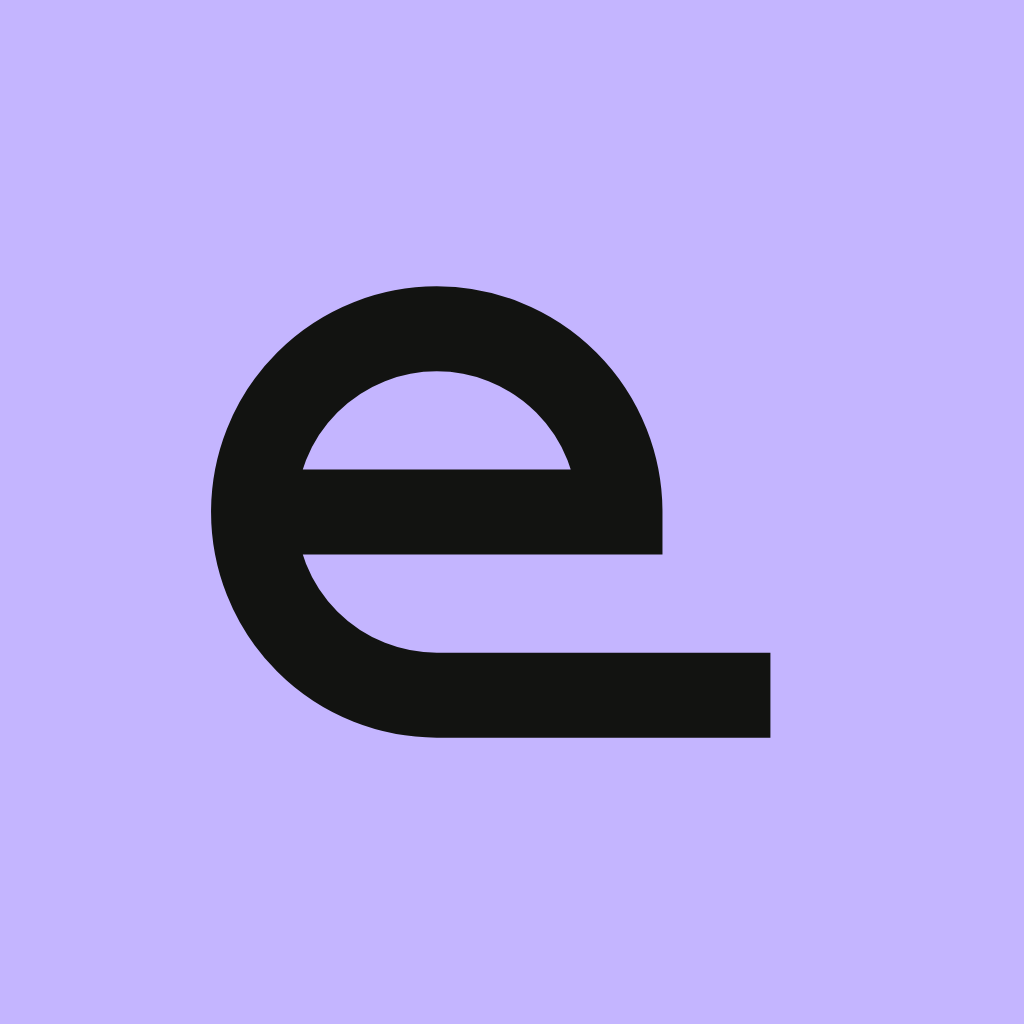
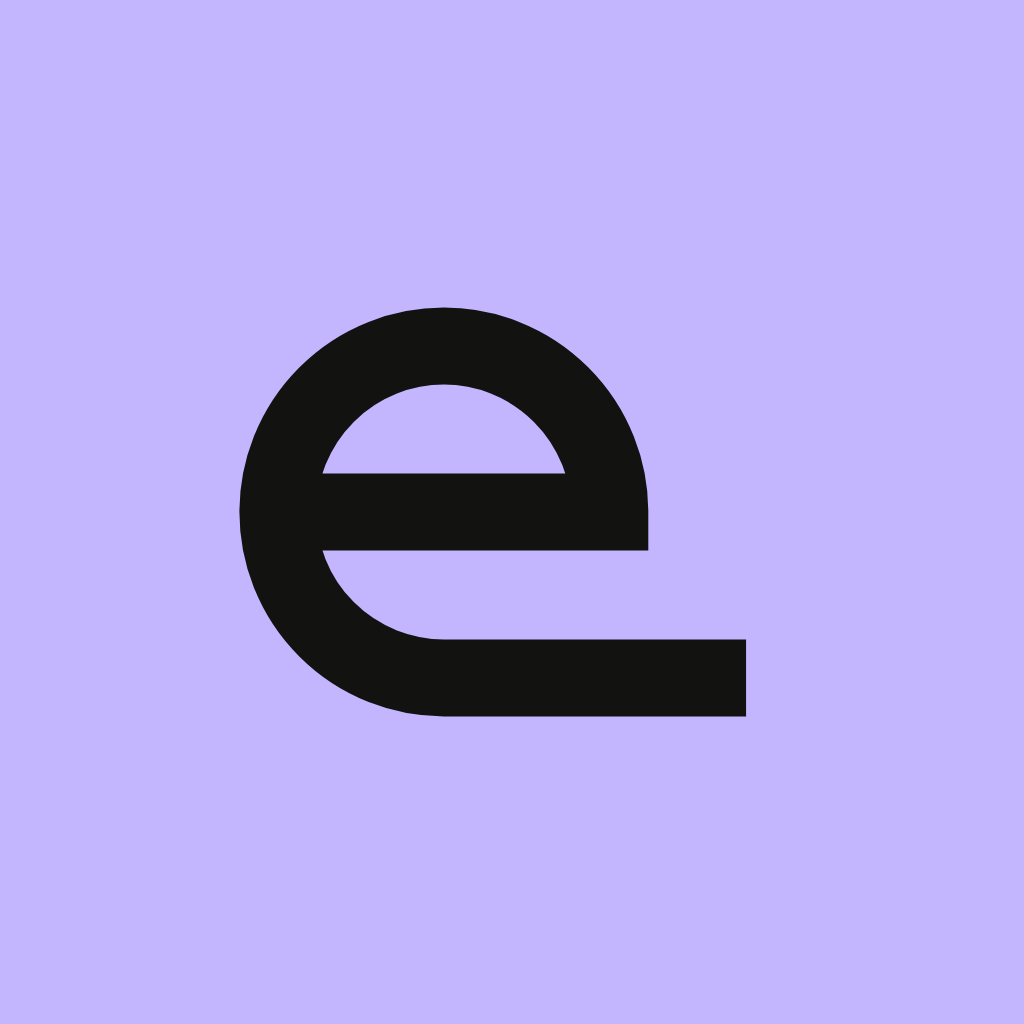
Put the mark on every surface Android shows it on, and fix the scale that clipped it
The icon landed, but on a launcher that masks to a circle the rail ran into the edge. The
mark's furthest point from its centre is the right end of that rail, 107.7 units out in the
256-unit drawing; at the scale used it reached 148.6 against a safe-circle radius of 144. The
safe zone is a square but the mask is a circle, and a bounding box that fits the square can
still put its corners outside the circle. Rescaled so the circumscribed radius clears it with
room, and the monochrome layer moved with it.

Three surfaces had no mark at all:

Themed icons. Android 13+ recolours a monochrome layer to the wallpaper. Without one this was
the only icon on the home screen ignoring the user's theme while everything around it adapted.

The splash. Android 12+ draws one on every cold start whether or not it is configured; left
alone it dropped the ink-on-lilac icon onto near-black. It is now the mark in lilac on Ground.
That inverts the icon's pairing on purpose — the kit allows both, and it keeps the cold start
dark the whole way rather than flashing a bright lilac field at someone mid-attack. Note for
later: android:postSplashScreenTheme is an androidx splashscreen attribute, not a platform one.
The platform attributes are inert outside the splash, so they sit on the app's own theme and
need no extra dependency.

The first screen, which still showed the canal glyph drawn before this logo existed. It now
[…]

Changed region(s): [[0.1875, 0.2812, 0.75, 0.7188], [0.2812, 0.3438, 0.5625, 0.4688]]

diff --git a/app/src/main/kotlin/health/epley/app/HomeFlow.kt b/app/src/main/kotlin/health/epley/app/HomeFlow.kt
@@ -1,6 +1,5 @@
 package health.epley.app
 
-import androidx.compose.foundation.Canvas
 import androidx.compose.foundation.background
 import androidx.compose.foundation.layout.Arrangement
 import androidx.compose.foundation.layout.Box
@@ -28,9 +27,7 @@ import androidx.compose.runtime.Composable
 import androidx.compose.ui.Alignment
 import androidx.compose.ui.Modifier
 import androidx.compose.ui.draw.clip
-import androidx.compose.ui.geometry.Offset
-import androidx.compose.ui.graphics.StrokeCap
-import androidx.compose.ui.graphics.drawscope.Stroke
+import androidx.compose.ui.res.painterResource
 import androidx.compose.ui.platform.LocalDensity
 import androidx.compose.ui.text.font.FontWeight
 import androidx.compose.ui.unit.dp
@@ -42,8 +39,6 @@ import health.epley.core.MountMode
 import health.epley.core.Side
 import health.epley.core.word
 import java.text.SimpleDateFormat
-import kotlin.math.cos
-import kotlin.math.sin
 import java.util.Date
 import java.util.Locale
 
@@ -189,7 +184,7 @@ fun HomeScreen(
         },
     ) {
         Spacer(Modifier.height(8.dp))
-        CanalMark()
+        BrandMark()
         Text(
             "Epley Coach",
             color = Palette.Ink,
@@ -233,42 +228,24 @@ fun HomeScreen(
 }
 
 /**
- * The mark: a semicircular canal drawn open, with the displaced crystal sitting in it. That is
- * the whole condition in one figure, and the whole treatment is moving that dot around that arc.
+ * The brand mark, the same "e" the launcher icon and the splash use, drawn from the one vector
+ * in res/drawable so the three cannot drift apart.
  *
- * Static, like everything else here. The audience for this screen is mid-attack and the design
- * rules forbid animation (WCAG 2.3.3) — a logo that drifts or pulses would be, for these users
- * specifically, a symptom.
+ * Lilac tile, ink mark — the launcher icon exactly. Opening the app should show you the thing
+ * you just tapped.
  */
 @Composable
-private fun CanalMark() {
+private fun BrandMark() {
     Box(
-        Modifier.size(56.dp).clip(RoundedCornerShape(19.dp)).background(Palette.Surface),
+        Modifier.size(56.dp).clip(RoundedCornerShape(19.dp)).background(Palette.Selected),
         contentAlignment = Alignment.Center,
     ) {
-        Canvas(Modifier.size(30.dp)) {
-            val stroke = 3.5.dp.toPx()
-            val radius = (size.minDimension - stroke) / 2f
-            val middle = Offset(size.width / 2f, size.height / 2f)
-            // Open at the top left, where the crystal sits, so the ring reads as a canal with a
-            // way in rather than as a closed letter O.
-            drawArc(
-                color = Palette.Holding,
-                startAngle = 200f,
-                sweepAngle = 300f,
-                useCenter = false,
-                style = Stroke(width = stroke, cap = StrokeCap.Round),
-            )
-            val radians = Math.toRadians(200.0)
-            drawCircle(
-                color = Palette.Seeking,
-                radius = stroke * 1.15f,
-                center = Offset(
-                    middle.x + radius * cos(radians).toFloat(),
-                    middle.y + radius * sin(radians).toFloat(),
-                ),
-            )
-        }
+        Icon(
+            painter = painterResource(R.drawable.ic_brand_mark),
+            contentDescription = null,
+            tint = Palette.Ground,
+            modifier = Modifier.size(38.dp),
+        )
     }
 }
 
